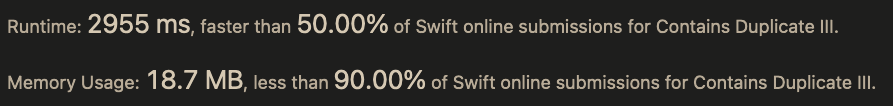
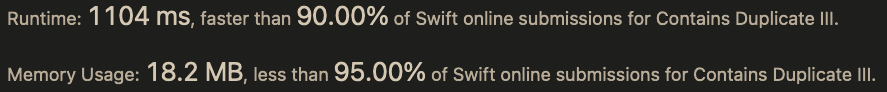
Improved 220

Changed region(s): [[0.0, 0.0435, 0.9436, 0.3261], [0.0, 0.6522, 1.0, 0.913]]

diff --git a/LeetCode.playground/Pages/220. Contains Duplicate III.xcplaygroundpage/Contents.swift b/LeetCode.playground/Pages/220. Contains Duplicate III.xcplaygroundpage/Contents.swift
@@ -1,8 +1,58 @@
 /*:
- ## Binary Search Tree
+ ## Bucket Sort (Sort of..)
+ ### Time: O(n)
+ ### Space: 0(n)
  ![submission](220-1.png)
  */
 class Solution {
+    func containsNearbyAlmostDuplicate(_ nums: [Int], _ indexDiff: Int, _ valueDiff: Int) -> Bool {
+        // Bucket only needs to contain one number, cuz if more then one which means duplicate
+        var bucketsList = [Int: Int]()
+        var bucketWidth = valueDiff + 1 // Avoid divided by zero
+        
+        for (i, num) in nums.enumerated() {
+            // decide num belongs to which bucket
+            let bucketIndex = Int((Double(num) / Double(bucketWidth)).rounded(.down)) // Rounded down for negative case
+            
+            // if the bucket exists already, then num is duplicate
+            if let _ = bucketsList[bucketIndex] {
+                return true
+            }
+            // if the neighbour buckets exists and the diff is less than bucket width, then num is duplicate
+            if let previous = bucketsList[bucketIndex - 1], abs(num - previous) < bucketWidth {
+                return true
+            }
+            if let next = bucketsList[bucketIndex + 1], abs(num - next) < bucketWidth {
+                return true
+            }
+            
+            bucketsList[bucketIndex] = num
+            
+            // Remove the first bucket in list to keep indexDiff (like sliding window)
+            if i >= indexDiff {
+                let bucketToRemove = Int((Double(nums[i - indexDiff]) / Double(bucketWidth)).rounded(.down))
+                bucketsList[bucketToRemove] = nil
+            }
+        }
+        
+        return false
+    }
+}
+
+let s = Solution()
+
+s.containsNearbyAlmostDuplicate([1,2,3,1], 3, 0)
+s.containsNearbyAlmostDuplicate([1,5,9,1,5,9], 2, 3)
+s.containsNearbyAlmostDuplicate([-3,3], 2, 4)
+s.containsNearbyAlmostDuplicate([2,0,-2,2], 2, 1)
+
+/*:
+ ## Binary Search Tree
+ ### Time: O(n log k), where k is index diff
+ ### Space: O(k), where k is index diff
+ ![submission](220-2.png)
+ */
+class Solution2 {
     class BST {
         var val: Int
         var left: BST?
@@ -113,16 +163,18 @@ class Solution {
     }
 }
 
-let s = Solution()
+let s2 = Solution2()
 
-s.containsNearbyAlmostDuplicate([1,2,3,1], 3, 0)
-s.containsNearbyAlmostDuplicate([1,5,9,1,5,9], 2, 3)
+s2.containsNearbyAlmostDuplicate([1,2,3,1], 3, 0)
+s2.containsNearbyAlmostDuplicate([1,5,9,1,5,9], 2, 3)
 
 /*:
  ## Sliding Window
- ![submission](220-2.png)
+ ### Time: O(n*k), where k = index diff
+ ### Space: O(1)
+ ![submission](220-3.png)
  */
-class Solution2 {
+class Solution3 {
     func containsNearbyAlmostDuplicate(_ nums: [Int], _ indexDiff: Int, _ valueDiff: Int) -> Bool {
         var end = nums.count - 1
         
@@ -140,7 +192,7 @@ class Solution2 {
     }
 }
 
-let s2 = Solution2()
+let s3 = Solution3()
 
-s2.containsNearbyAlmostDuplicate([1,2,3,1], 3, 0)
-s2.containsNearbyAlmostDuplicate([1,5,9,1,5,9], 2, 3)
+s3.containsNearbyAlmostDuplicate([1,2,3,1], 3, 0)
+s3.containsNearbyAlmostDuplicate([1,5,9,1,5,9], 2, 3)
